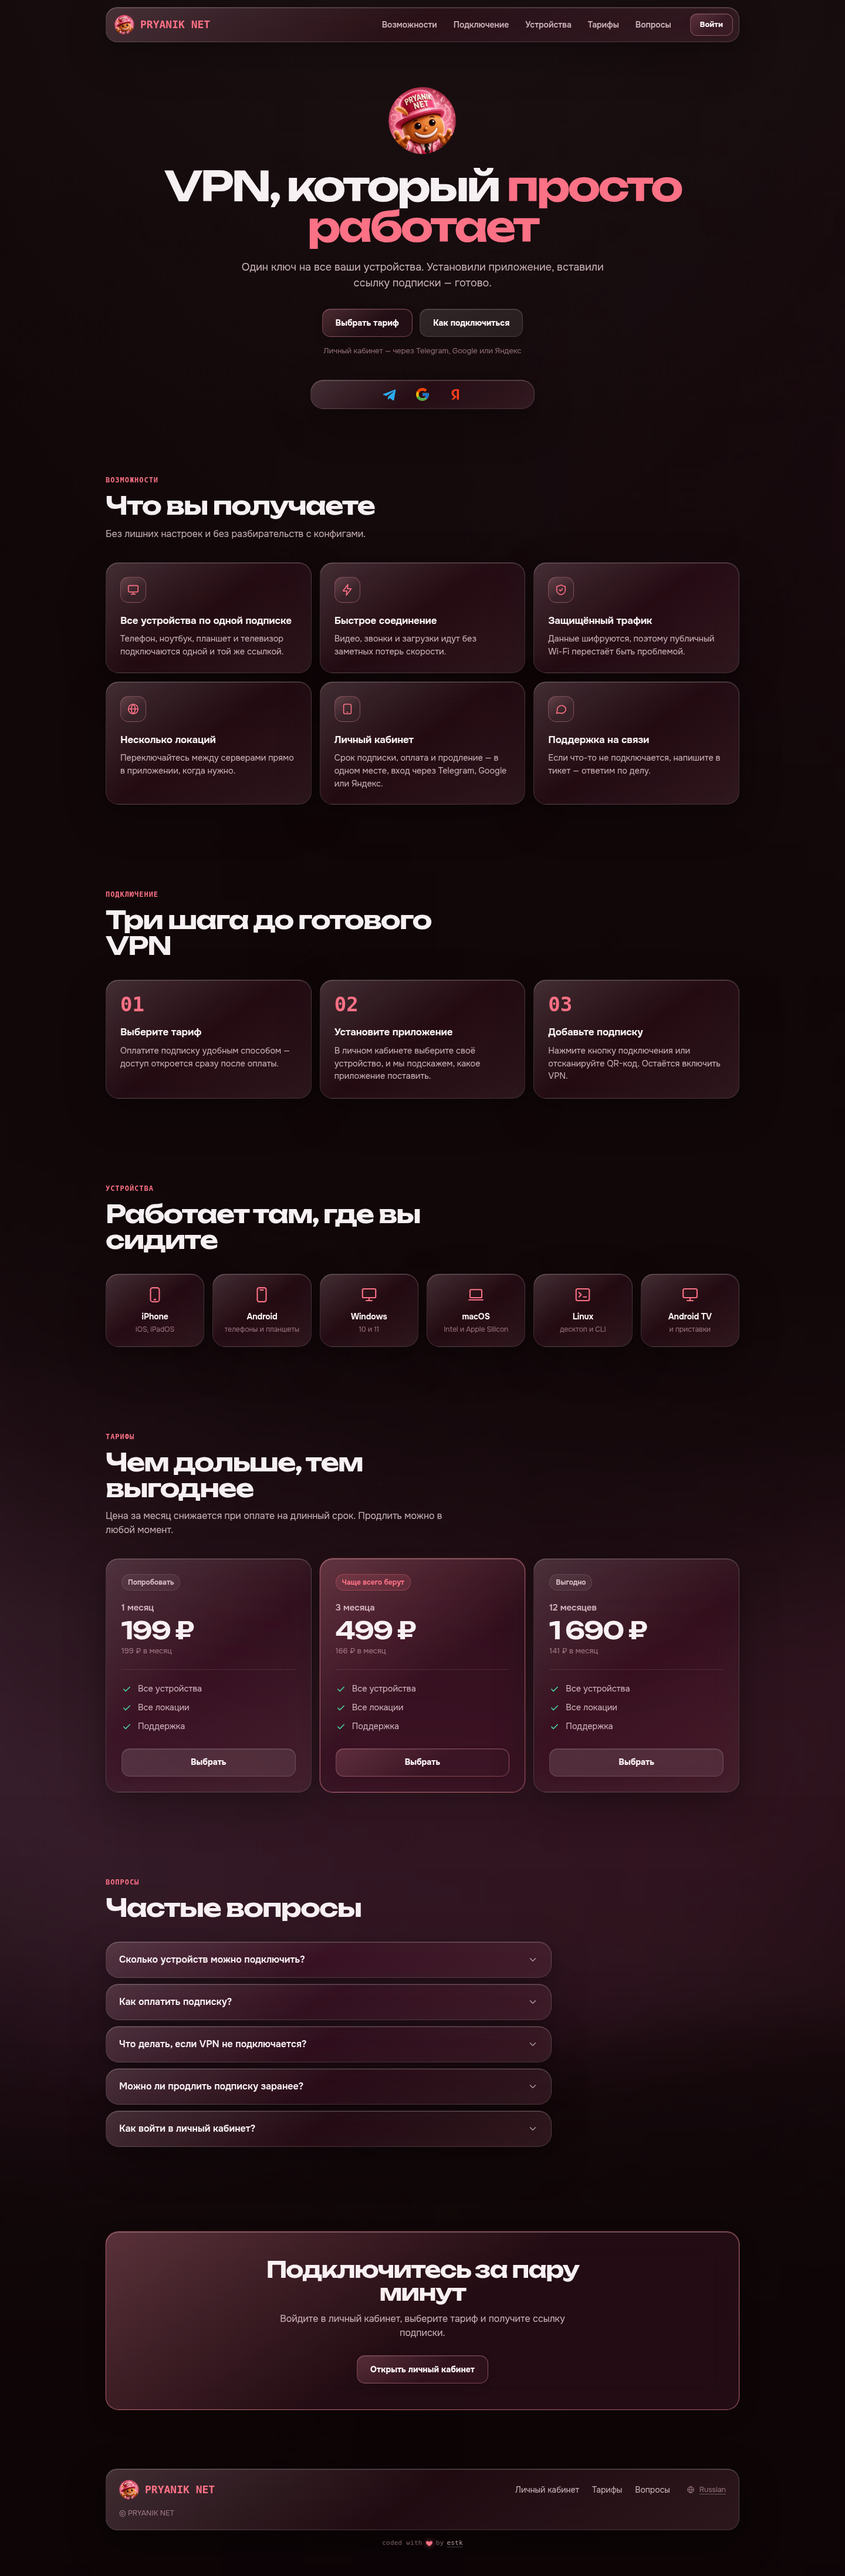
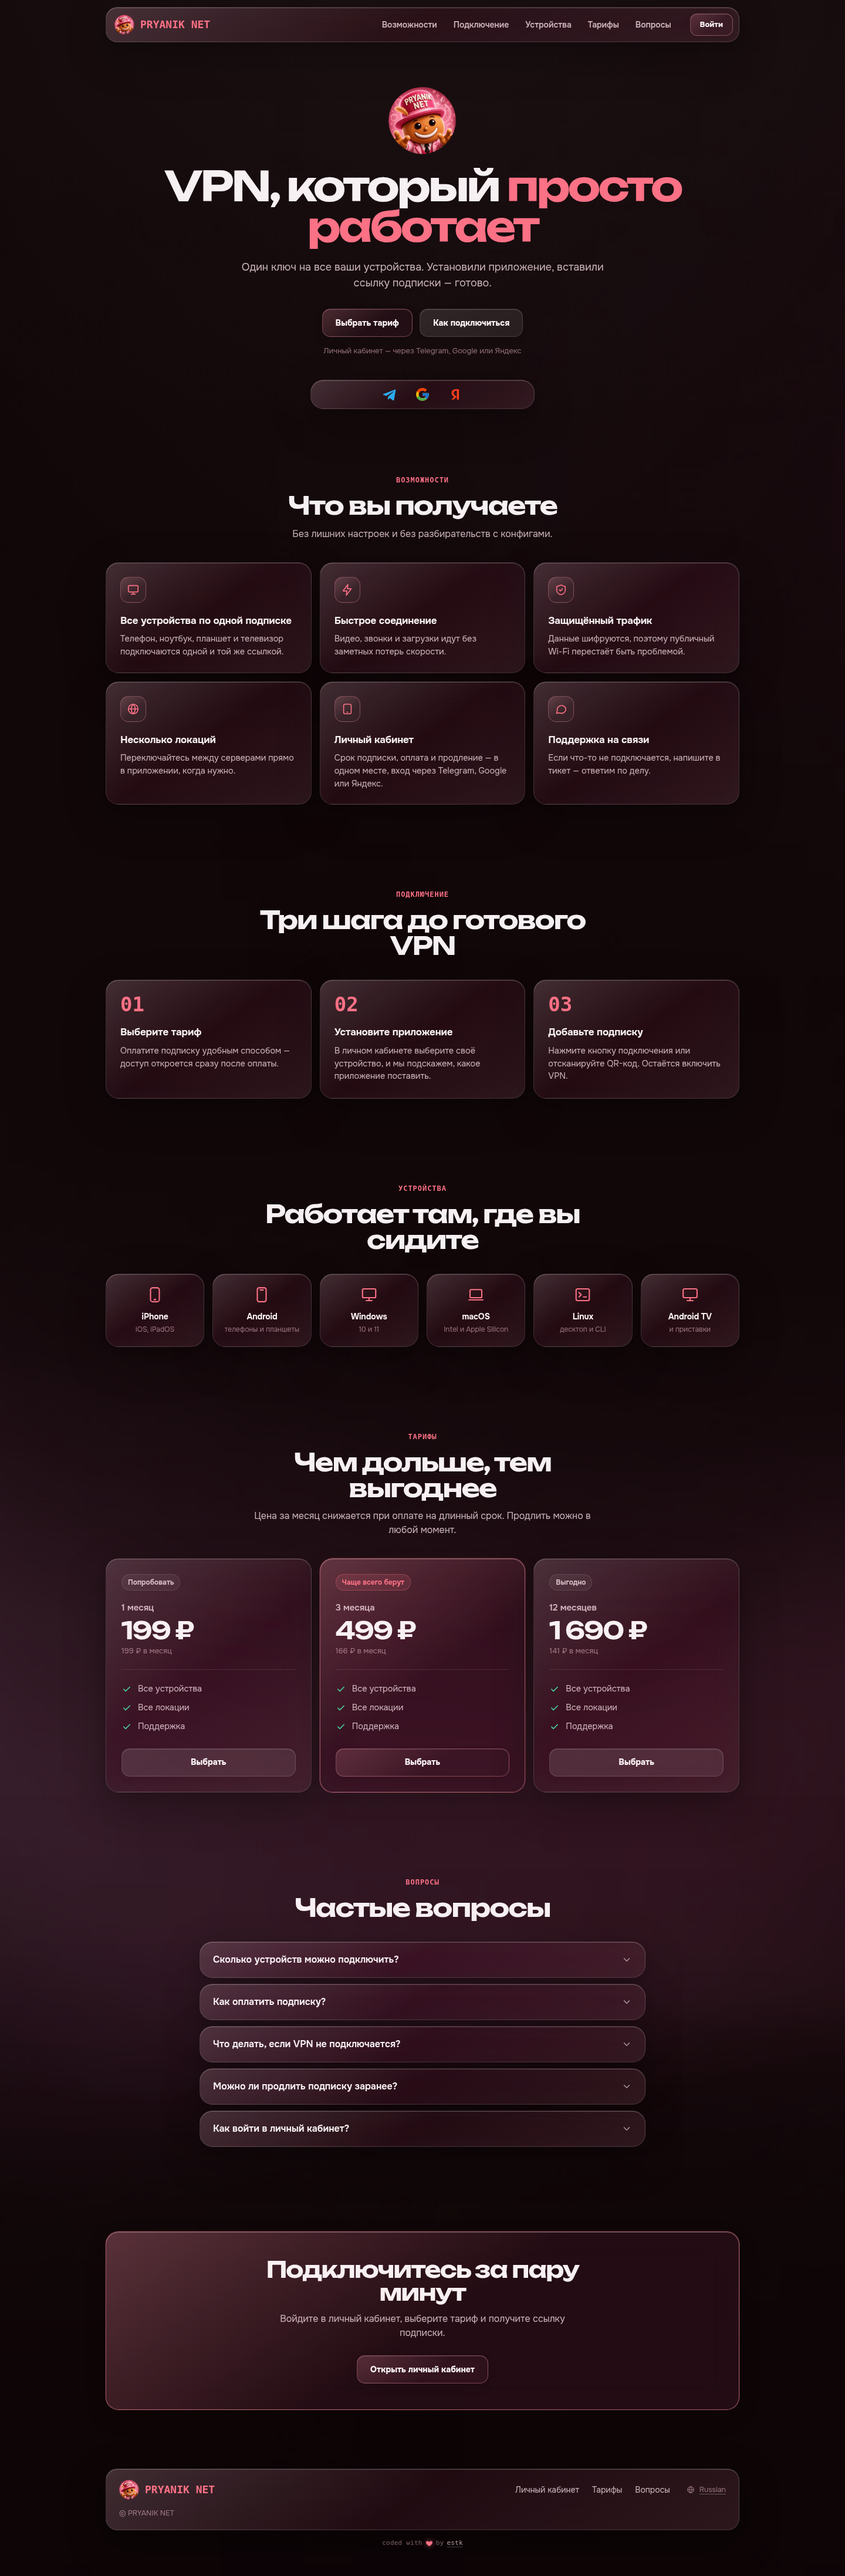
Center section heads and FAQ
Claude-Session: https://claude.ai/code/session_01LoewjAg2RbUAqsVYzxWfXA

diff --git a/pryanik-vpn/style.css b/pryanik-vpn/style.css
@@ -350,3 +350,8 @@ footer{padding:28px 0 48px}
   footer{padding:8px 0 28px}
   .foot{padding:14px 16px}
 }
+
+.head{margin-inline:auto;text-align:center}
+.faq{margin-inline:auto}
+.faq summary{text-align:left}
+.faq details p{text-align:left}
